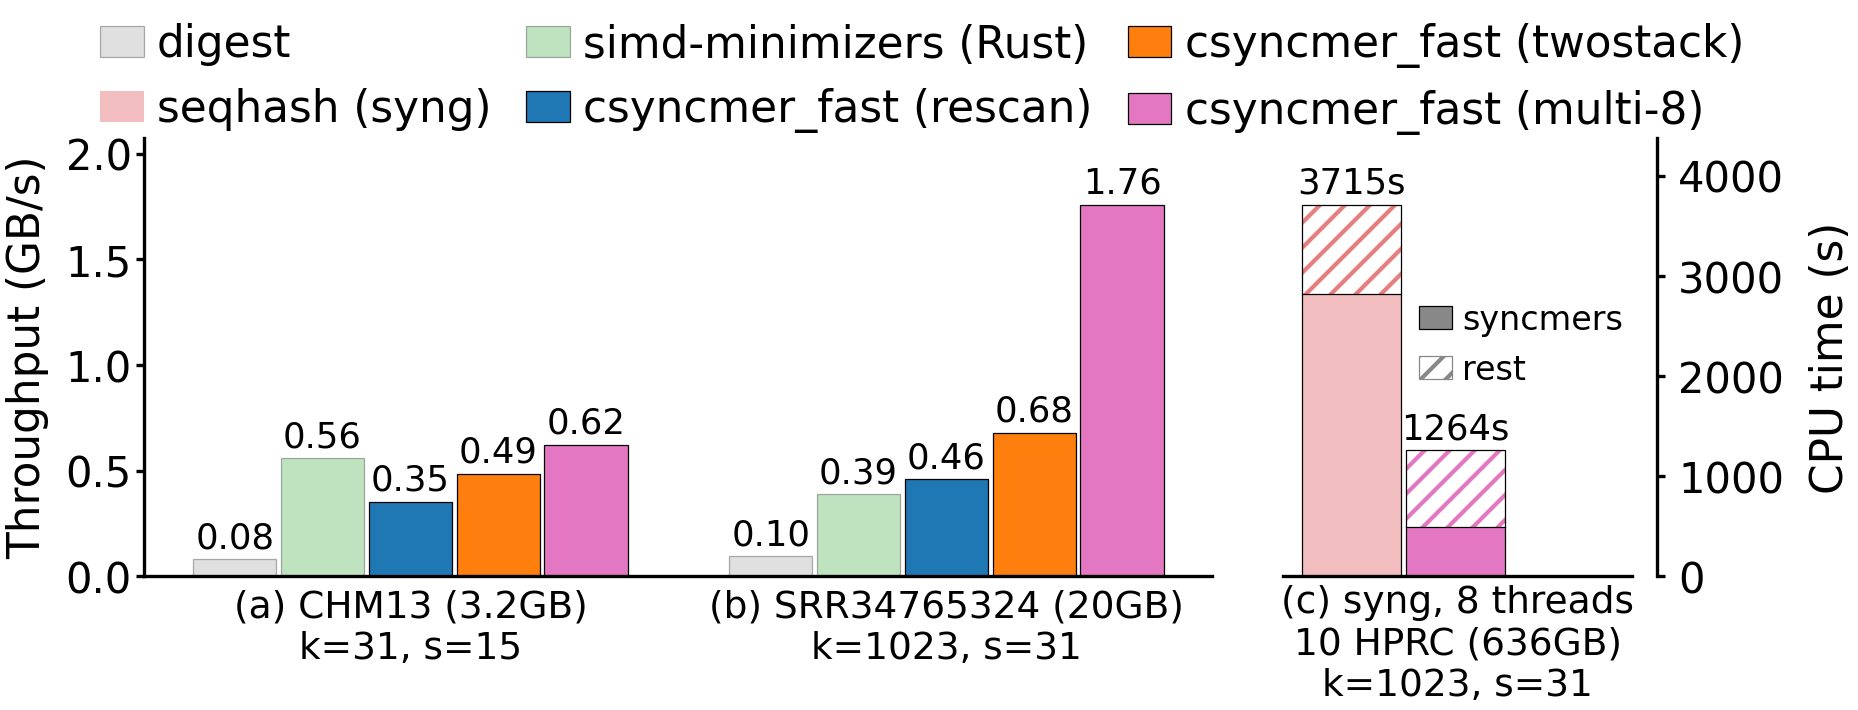
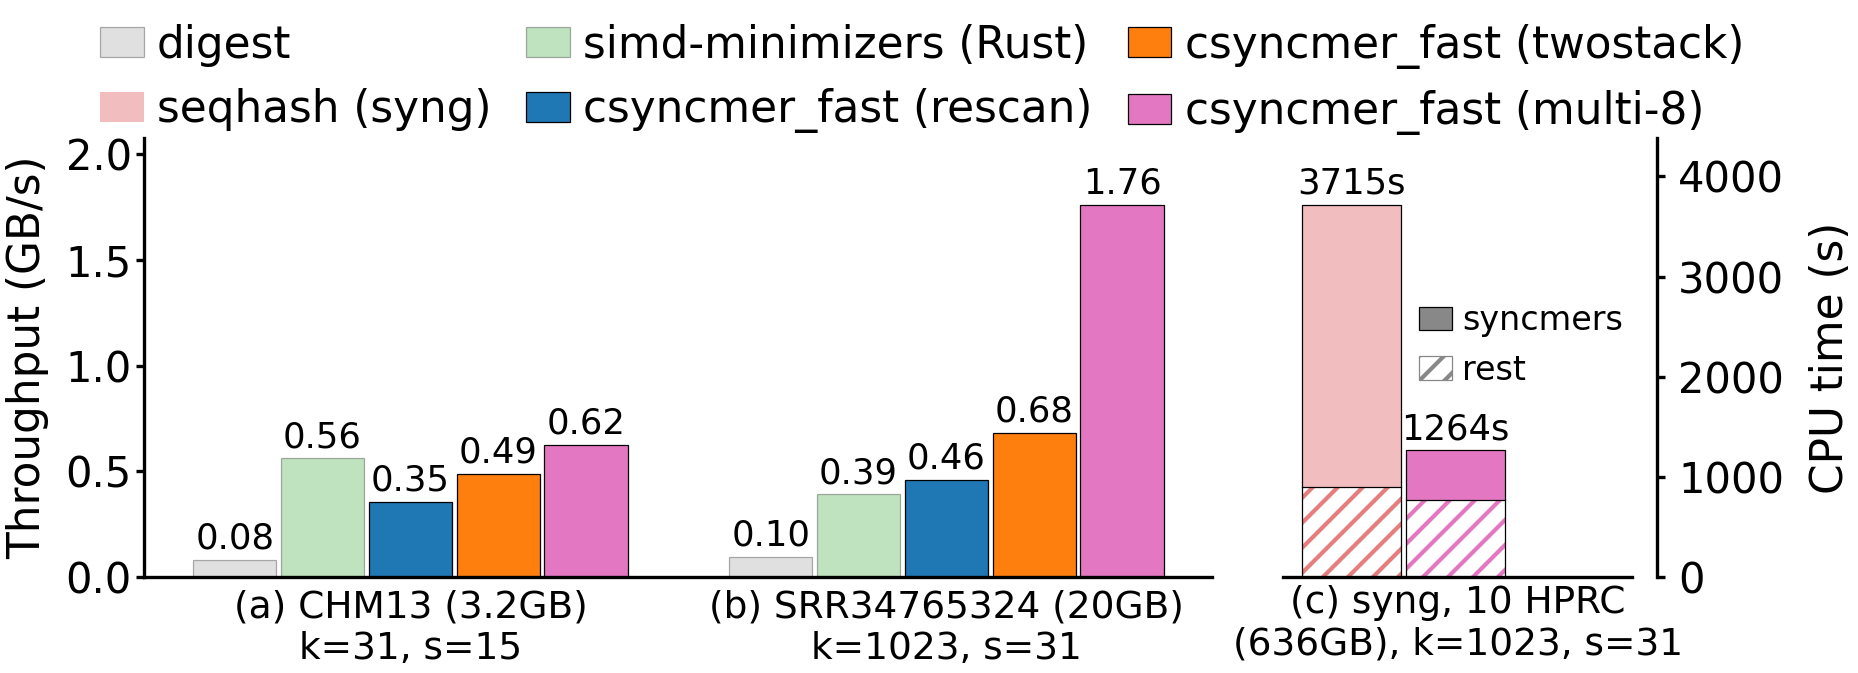
Fig 1(c): hatched rest at the bottom, shorter two-line label

diff --git a/misc/paper/plot_throughput.py b/misc/paper/plot_throughput.py
@@ -165,23 +165,24 @@ def plot(data, syng_data, syng_syncmer, outbase, syng_is_cpu=False):
                 ax_syng.bar(x, v, width=bar_width * 0.95, color=color, alpha=alpha,
                             edgecolor="black", linewidth=0.3, label=m_label)
             else:
-                # Stacked: syncmer extraction (solid) under the rest of syng (hatched,
-                # in the method colour), then one black outline around the whole bar
+                # Stacked: the rest of syng (hatched, in the method colour) under
+                # syncmer extraction (solid), then one black outline around the whole bar
                 t_sync = min(t_sync, v)
-                ax_syng.bar(x, t_sync, width=bar_width * 0.95, color=color, alpha=alpha,
-                            linewidth=0, label=m_label)
-                ax_syng.bar(x, v - t_sync, bottom=t_sync, width=bar_width * 0.95,
+                t_rest = v - t_sync
+                ax_syng.bar(x, t_rest, width=bar_width * 0.95,
                             facecolor="white", edgecolor=color, alpha=max(alpha, 0.6),
                             hatch="////", linewidth=0)
+                ax_syng.bar(x, t_sync, bottom=t_rest, width=bar_width * 0.95, color=color,
+                            alpha=alpha, linewidth=0, label=m_label)
                 ax_syng.bar(x, v, width=bar_width * 0.95, fill=False,
                             edgecolor="black", linewidth=0.3)
-                ax_syng.plot([x - bar_width * 0.475, x + bar_width * 0.475], [t_sync] * 2,
+                ax_syng.plot([x - bar_width * 0.475, x + bar_width * 0.475], [t_rest] * 2,
                              color="black", linewidth=0.3)
             ax_syng.text(x, v + max_t * 0.01, f"{v:.0f}s" if v >= 100 else f"{v:.1f}s", ha="center",
                          va="bottom", fontsize=FS - 2)
 
         ax_syng.set_xticks([])
-        ax_syng.set_xlabel("(c) syng, 8 threads\n10 HPRC (636GB)\nk=1023, s=31", fontsize=FS - 1.5, labelpad=2)
+        ax_syng.set_xlabel("(c) syng, 10 HPRC\n(636GB), k=1023, s=31", fontsize=FS - 1.5, labelpad=2)
         ax_syng.spines["top"].set_visible(False)
         ax_syng.spines["left"].set_visible(False)
         ax_syng.yaxis.tick_right()
